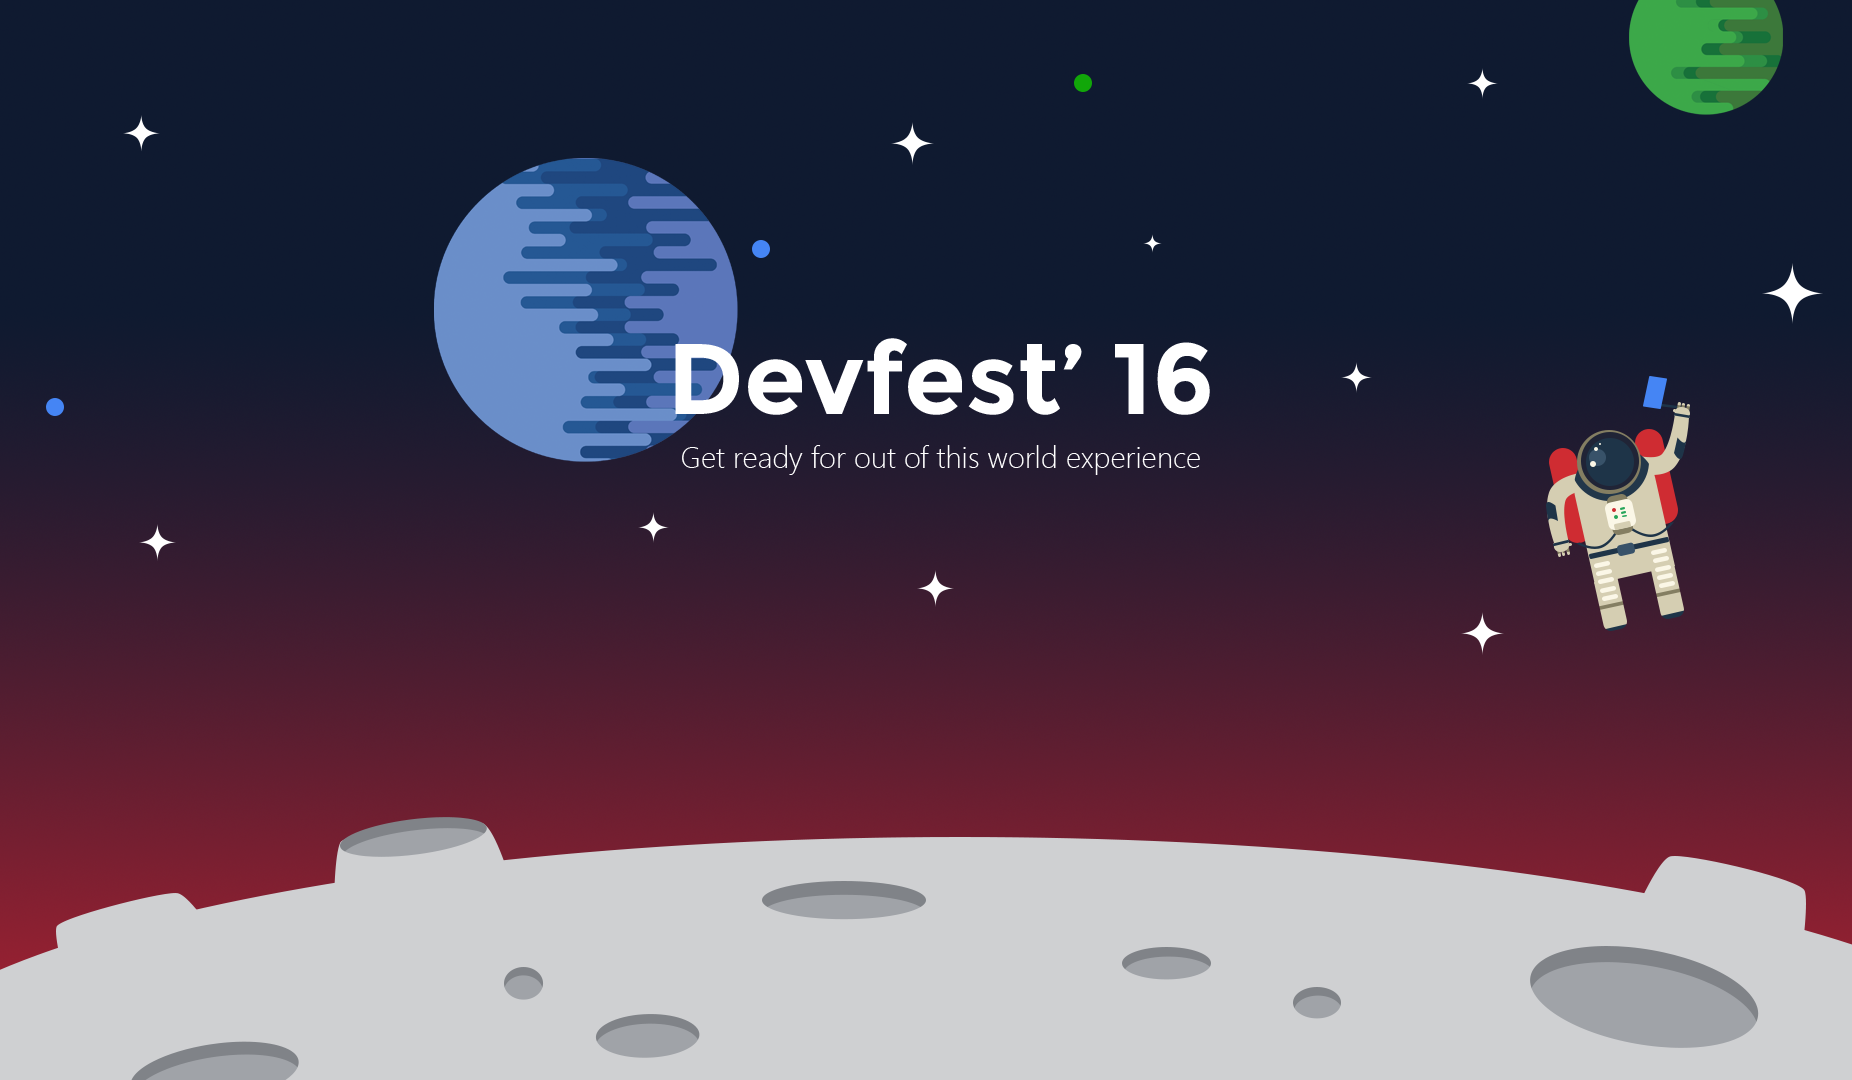
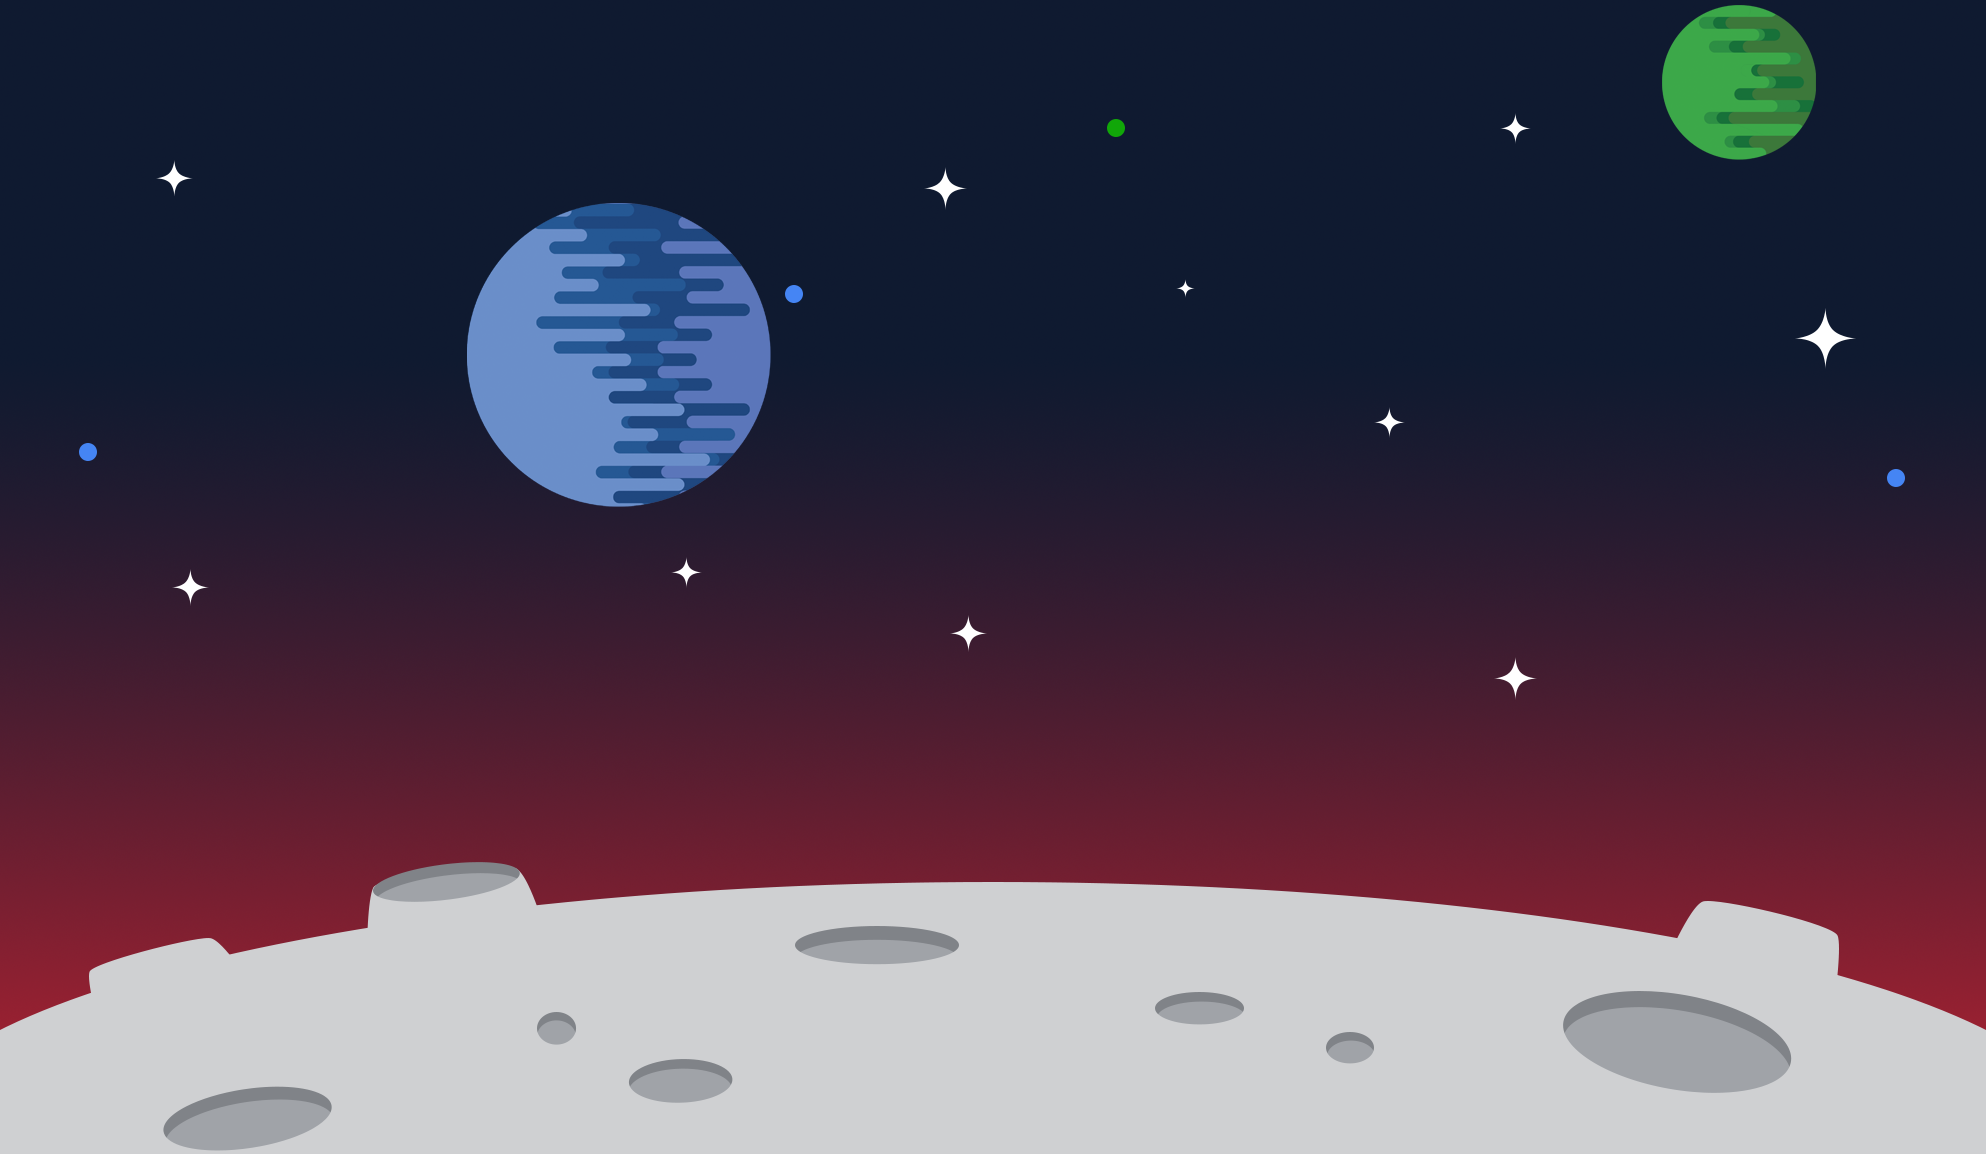
Astronaut

diff --git a/index.html b/index.html
@@ -6,6 +6,7 @@
     <meta name="viewport" content="width=device-width, initial-scale=1">
     <title>GDG Devfest '16</title>
     <link href="https://fonts.googleapis.com/css?family=Montserrat|Roboto:300i,400" rel="stylesheet">
+    <link href="https://fonts.googleapis.com/css?family=Roboto:100" rel="stylesheet">
     <link rel="stylesheet" href="css/materialize.min.css">
     <link rel="stylesheet" type="text/css" href="css/font-awesome.min.css">
     <meta http-equiv="Content-Type" content="text/html; charset=utf-8" />
@@ -14,17 +15,6 @@
     <meta name="theme-color" content="#232240">
     <script src="js/jquery.min.js"></script>
     <link rel="icon" href="images/gdg.png">
-    <style>
-    body{
-      overflow-x: hidden;
-      }
-      .header-image img{
-        position: absolute;
-        left: 10%;
-        z-index: 1;
-        top: 25%;
-      }
-    </style>
 <script type="text/javascript">
      Materialize.toast("Registered Successfully!", 4000)
 </script>
@@ -39,8 +29,10 @@
   </div>
 </nav>
 <!--Header-->
-<div class="header">
+<div class="header" id="head">
+    <div class="center Devfest">Devfest' 16<br><span>Get ready for out of this world experience</span></div>
     <div class="center register-button"><a href="#register_form" class="custom-yellow-background">Register</a></div>
+    <div class="astronaut"><img src="images/Astronaut.png"></div>
 </div>
 <!--End of header-->
 <div class="graident">
@@ -86,14 +78,16 @@
     <h1 class="center heading">Speakers</h1>
     <div class="row">
     <div class="col m4 push-m2 s12 speaker center">
-        <img src="images/chadhart.jpg" class="rounded"><br>
-        Chad Hart<br>
-        CTO, Tokbox
+        <img src="images/Speaker2.jpg" class="rounded"><br>
+        Manoranjan Padhy<br>
+        Social Media & Community Manager<br>
+        Google
     </div>
     <div class="col m4 push-m2 s12 speaker center">
-        <img src="images/pragatirai.jpg" class="rounded"><br>
-        Pragati Ogal Rai<br>
-        Director, Deutsche Bank Labs
+        <img src="images/Speaker1.jpg" class="rounded"><br>
+        Ashish Rajput<br>
+        Co - Founder<br>
+        Roder.in
     </div>
     </div>
   </div>
@@ -173,8 +167,21 @@
         </div>
     </footer>
 <!-- End of Second Footer-->
+<script>
+  $(document).ready(function(){
+    astroUp();
+  });
+
+  function astroDown(){
+    $('.astronaut').removeClass('translate-down-astro');
+    $('.astronaut').addClass('translate-up-astro');
+    setTimeout(astroUp,4000);
+  }
+  function astroUp(){
+    $('.astronaut').removeClass('translate-up-astro');
+    $('.astronaut').addClass('translate-down-astro');
+    setTimeout(astroDown,3000);
+  }
+</script>
 </body>
 </html>
-<?php
-}
-?>

diff --git a/css/landing.css b/css/landing.css
@@ -88,14 +88,9 @@
   font-size: 15px!important;
   color: black!important;
 }
-
-
-
-
-
-
-
-
+#head{
+  position: relative;
+}
 .cd-horizontal-timeline {
   opacity: 0;
   margin: 2em auto;
@@ -632,15 +627,43 @@ body{
     top:0;
     min-height: 100vh;
 }
+.astronaut{
+  position: absolute;
+  right: 15%;
+  bottom:20%;
+  transition: 5s all;
+}
+.translate-up-astro{
+  transform: translateY(50px);
+  transition: 4s all;
+}
+.translate-down-astro{
+  transform: translateY(-50px);
+  transition: 4s all;
+}
 .register-button{
     position: absolute;
-    bottom:40%;
+    bottom:35%;
     left: 0; right: 0;
     margin: auto;
     z-index: 1;
     color: white;
 }
-
+.Devfest{
+  position: absolute;
+  bottom:50%;
+  left: 0;
+  right: 0;
+  color: white;
+  font-size: 500%;
+  line-height: 40%;
+}
+.Devfest span{
+  font-size: 28%;
+  font-family: 'Roboto', sans-serif;
+  font-weight: 100;
+  color: rgba(255,255,255,0.6);
+}
 .register{
   background: -webkit-linear-gradient(#cfd0d0, #ffffff); /* For Safari 5.1 to 6.0 */
     background: -o-linear-gradient(#cfd0d0, #ffffff); /* For Opera 11.1 to 12.0 */
@@ -834,7 +857,8 @@ nav{
 }
 
 .speaker img{
-    width: 50%; border-radius: 50%; padding: 20px;
+    width: 50%; border-radius: 50%; padding: 0px;
+    border:1px solid rgba(0,0,0,0.5);
 }
 @media only screen and (max-device-width: 600px){
     .header-image{
